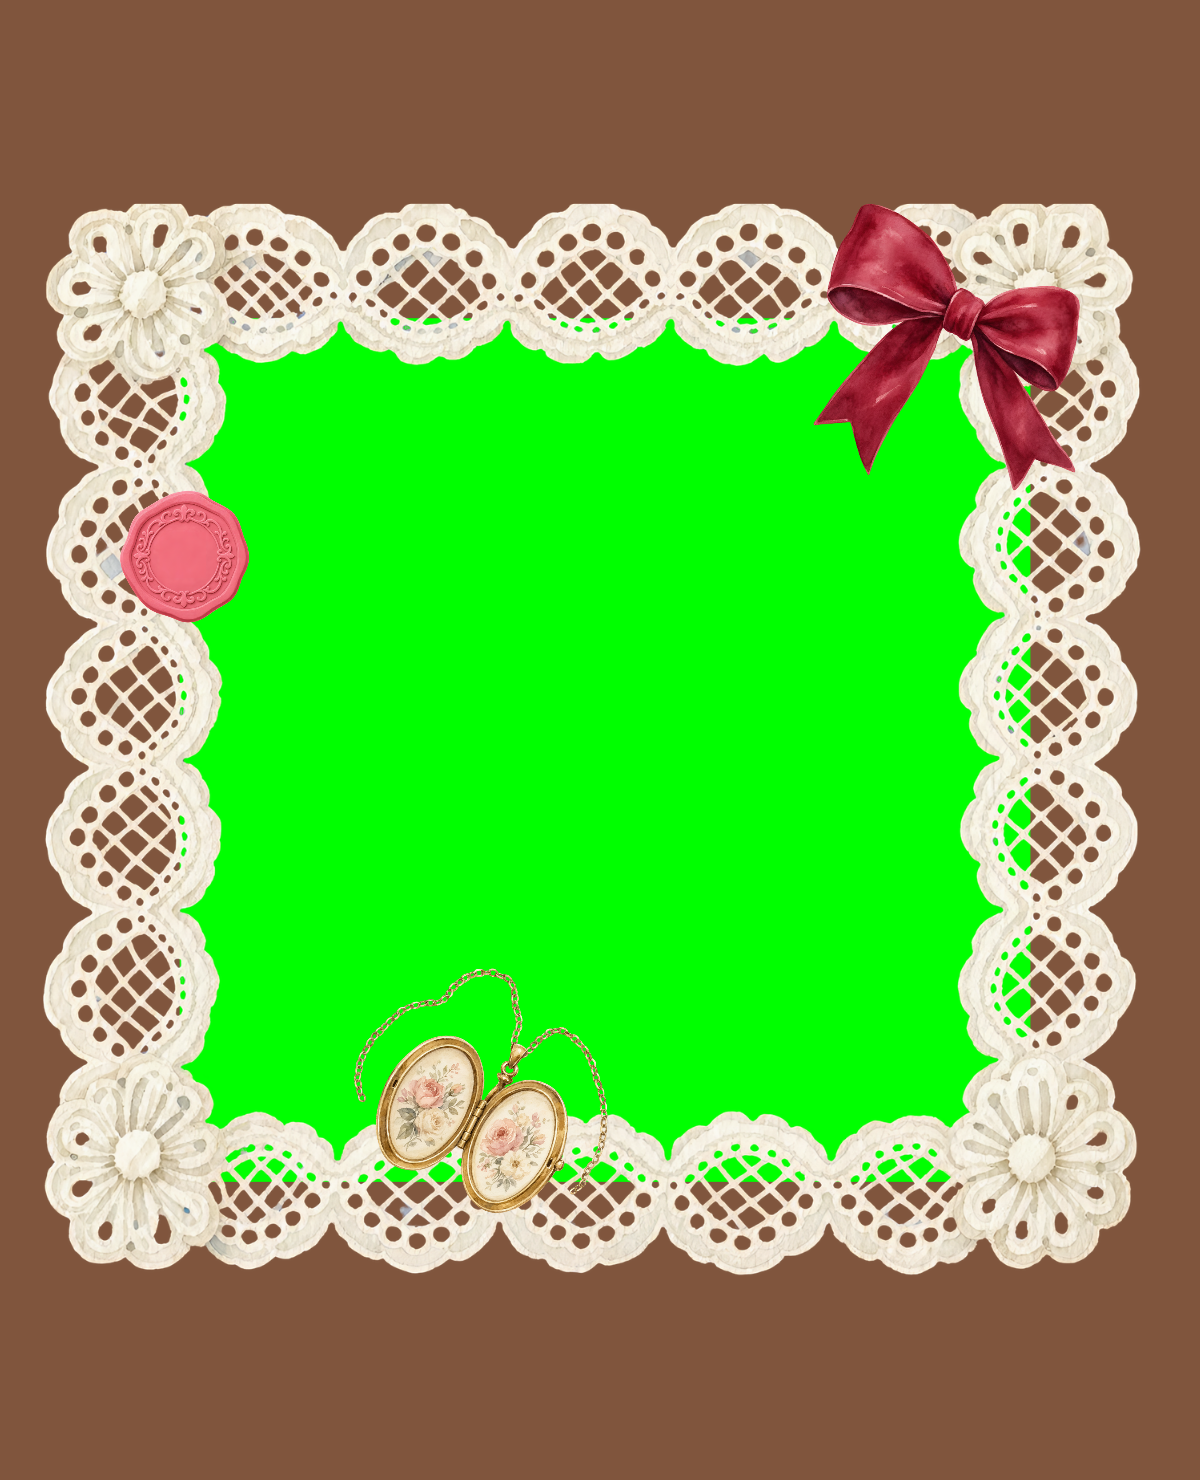
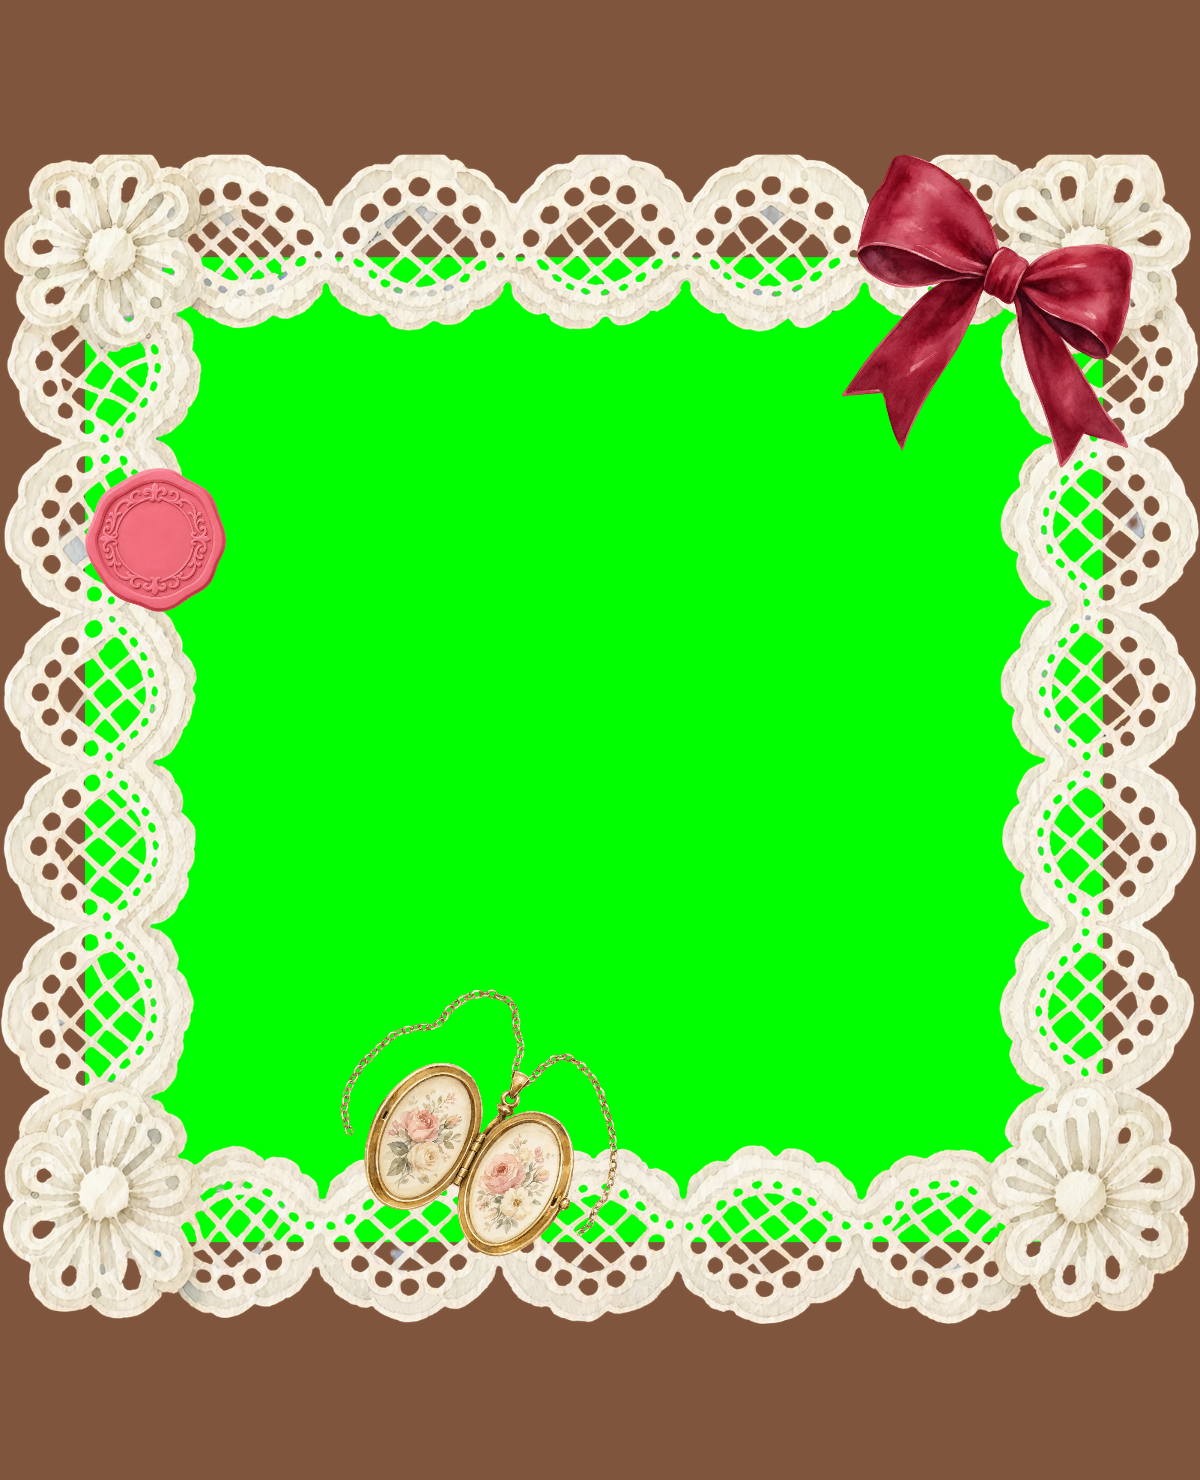
Add files via upload

diff --git a/camera.html b/camera.html
@@ -1,1 +1,1 @@
-<!doctype html><html lang="en"><head><meta charset="utf-8"><meta name="viewport" content="width=device-width,initial-scale=1"><meta name="theme-color" content="#5B6E2C"><title>Kamera · Hafiy & Aina</title><link rel="stylesheet" href="style.css?v=custom-4"></head><body class="camera-page"><main class="camera-shell"><nav class="camera-topbar" aria-label="Camera navigation"><a class="camera-icon" href="menu.html" aria-label="Close camera and return to menu">×</a><h1>Hafiy & Aina</h1><button id="switchBtn" class="camera-icon" aria-label="Switch front and back camera" hidden>⇄</button></nav><section class="camera-studio" aria-label="Wedding camera"><div class="camera-area"><video id="camera" autoplay playsinline muted hidden></video><canvas id="preview" width="480" height="592" aria-label="Live framed camera preview"></canvas><span id="countdown" role="status" aria-live="polite" hidden></span><button id="startBtn" class="start-overlay">Buka kamera</button></div><canvas id="canvas" hidden></canvas><img id="photo" alt="Your finished wedding photo" hidden><fieldset id="choices"><legend class="sr-only">Choose your frame, filter and layout</legend><div id="frameOptions" class="frame-options" aria-label="Wedding frames"></div><div id="filterOptions" class="filter-strip" aria-label="Photo filters"></div><div class="capture-row"><div class="layout-control"><span class="control-caption">Layout</span><div id="layoutOptions" class="pills"></div></div><button id="captureBtn" class="shutter" aria-label="Take photo" hidden><span class="sr-only">Take photo</span></button><a href="gallery.html" class="camera-album-control"><span class="camera-icon" aria-hidden="true">▧</span><span>Album</span></a></div></fieldset><p id="message" class="message" role="status" aria-live="polite">Pilih bingkai dan filter, kemudian buka kamera.</p><div class="button-group result-actions"><button id="retakeBtn" class="btn secondary" hidden>Ambil semula</button><button id="downloadBtn" class="btn primary" hidden>Simpan gambar</button><button id="uploadBtn" class="btn blue" hidden>Kongsi ke album</button></div><p id="saveHelp" class="fine-print" hidden>On iPhone, choose Save Image in the share sheet. Otherwise check Files → Downloads.</p></section></main><script src="script.js?v=custom-4"></script></body></html>
+<!doctype html><html lang="en"><head><meta charset="utf-8"><meta name="viewport" content="width=device-width,initial-scale=1"><meta name="theme-color" content="#5B6E2C"><title>Kamera · Hafiy & Aina</title><link rel="stylesheet" href="style.css?v=frames-5"></head><body class="camera-page"><main class="camera-shell"><nav class="camera-topbar" aria-label="Camera navigation"><a class="camera-icon" href="menu.html" aria-label="Close camera and return to menu">×</a><h1>Hafiy & Aina</h1><button id="switchBtn" class="camera-icon" aria-label="Switch front and back camera" hidden>⇄</button></nav><section class="camera-studio" aria-label="Wedding camera"><div class="camera-area"><video id="camera" autoplay playsinline muted hidden></video><canvas id="preview" width="480" height="592" aria-label="Live framed camera preview"></canvas><span id="countdown" role="status" aria-live="polite" hidden></span><button id="startBtn" class="start-overlay">Buka kamera</button></div><canvas id="canvas" hidden></canvas><img id="photo" alt="Your finished wedding photo" hidden><fieldset id="choices"><legend class="sr-only">Choose your frame, filter and layout</legend><div id="frameOptions" class="frame-options" aria-label="Wedding frames"></div><div id="filterOptions" class="filter-strip" aria-label="Photo filters"></div><div class="capture-row"><div class="layout-control"><span class="control-caption">Layout</span><div id="layoutOptions" class="pills"></div></div><button id="captureBtn" class="shutter" aria-label="Take photo" hidden><span class="sr-only">Take photo</span></button><a href="gallery.html" class="camera-album-control"><span class="camera-icon" aria-hidden="true">▧</span><span>Album</span></a></div></fieldset><p id="message" class="message" role="status" aria-live="polite">Pilih bingkai dan filter, kemudian buka kamera.</p><div class="button-group result-actions"><button id="retakeBtn" class="btn secondary" hidden>Ambil semula</button><button id="downloadBtn" class="btn primary" hidden>Simpan gambar</button><button id="uploadBtn" class="btn blue" hidden>Kongsi ke album</button></div><p id="saveHelp" class="fine-print" hidden>On iPhone, choose Save Image in the share sheet. Otherwise check Files → Downloads.</p></section></main><script src="script.js?v=frames-5"></script></body></html>

diff --git a/script.js b/script.js
@@ -4,9 +4,10 @@ const $ = id => document.getElementById(id);
 const camera=$('camera'), photo=$('photo'), canvas=$('canvas'), preview=$('preview'), message=$('message');
 const startBtn=$('startBtn'),switchBtn=$('switchBtn'),captureBtn=$('captureBtn'),retakeBtn=$('retakeBtn'),downloadBtn=$('downloadBtn'),uploadBtn=$('uploadBtn');
 const frames=[
-{name:'Polka',file:'frame-polka.png',bg:'#80553d',ink:'#705246',area:{x:180,y:318,w:850,h:834}},
-{name:'Sticker',file:'frame-sticker.png',bg:'#80553d',ink:'#705246',area:{x:180,y:318,w:850,h:864}},
-{name:'Lace',file:'frame-lace.png',bg:'#80553d',ink:'#705246',area:{x:180,y:318,w:850,h:864}}
+{name:'Lace',file:'frame-lace.png?v=frames-5',bg:'#80553d',ink:'#705246',area:{x:85,y:257,w:1018,h:985}},
+{name:'Polka',file:'frame-polka.png?v=frames-5',bg:'#80553d',ink:'#705246',area:{x:77,y:86,w:1038,h:1096}},
+{name:'Sticker',file:'frame-sticker.png?v=frames-5',bg:'#80553d',ink:'#705246',area:{x:120,y:120,w:975,h:1062}},
+{name:'Scallop',file:'frame-scallop.png?v=frames-5',bg:'#80553d',ink:'#705246',area:{x:110,y:294,w:986,h:906}}
 ];
 const filters=['Original','Warm','Soft','Vintage','Black & White'];
 let frameIndex=0,filterIndex=0,layout=1,shots=[],stream=null,facing='user',busy=false,completed=false,saveFile=null,raf=0,lastPaint=0;
@@ -15,7 +16,7 @@ let area=frames[0].area;
 function prepareFrame(image){const surface=document.createElement('canvas');surface.width=1200;surface.height=1480;const c=surface.getContext('2d',{willReadFrequently:true});c.drawImage(image,0,0,1200,1480);const pixels=c.getImageData(0,0,1200,1480),d=pixels.data;
 for(let i=0;i<d.length;i+=4){const r=d[i],g=d[i+1],b=d[i+2],dominance=g-Math.max(r,b);if(g>125&&dominance>65){const opacity=1-Math.min(1,Math.max(0,(dominance-65)/95));d[i+3]=Math.round(d[i+3]*opacity);if(opacity>0&&opacity<1)d[i+1]=Math.min(g,Math.max(r,b)+12);}}
 c.putImageData(pixels,0,0);return surface;}
-frames.forEach((f,i)=>{const image=new Image();image.onload=()=>{try{f.overlay=prepareFrame(image);f.loaded=true;if(frameIndex===i)refreshResult();}catch(e){f.error=true;message.textContent='Could not prepare '+f.name+'. Refresh the page and try again.';}};image.onerror=()=>{f.error=true;if(frameIndex===i)message.textContent='Could not load '+f.file+'. Please upload all three frame PNG files.';};image.src='./'+f.file;});
+frames.forEach((f,i)=>{const image=new Image();image.onload=()=>{try{f.overlay=prepareFrame(image);f.loaded=true;if(frameIndex===i)refreshResult();}catch(e){f.error=true;message.textContent='Could not prepare '+f.name+'. Refresh the page and try again.';}};image.onerror=()=>{f.error=true;if(frameIndex===i)message.textContent='Could not load '+f.file+'. Please upload all four frame PNG files.';};image.src='./'+f.file;});
 
 function flower(c,x,y,r,color,turn=0){c.save();c.translate(x,y);c.rotate(turn);c.fillStyle=color;for(let i=0;i<7;i++){c.rotate(Math.PI*2/7);c.beginPath();c.ellipse(0,-r*.62,r*.4,r*.66,0,0,Math.PI*2);c.fill();}c.fillStyle='#b3803e';c.beginPath();c.arc(0,0,r*.23,0,Math.PI*2);c.fill();c.restore();}
 function foliage(c,x,y,flip){c.save();c.translate(x,y);c.scale(flip,1);c.strokeStyle='#809770';c.lineWidth=4;c.beginPath();c.moveTo(0,85);c.quadraticCurveTo(55,0,7,-95);c.stroke();c.fillStyle='#a5b68e';for(let j=0;j<5;j++){c.beginPath();c.ellipse(j%2?32:0,65-j*35,11,27,j%2?.8:-.7,0,Math.PI*2);c.fill();}c.restore();}

diff --git a/menu.html b/menu.html
@@ -1,1 +1,1 @@
-<!doctype html><html lang="ms"><head><meta charset="utf-8"><meta name="viewport" content="width=device-width,initial-scale=1"><meta name="theme-color" content="#5B6E2C"><title>Menu Kenangan · Hafiy & Aina</title><link rel="stylesheet" href="style.css?v=custom-4"></head><body class="menu-page"><main class="wedding-menu"><a class="menu-home" href="index.html">← Jemputan</a><div class="menu-art"><img src="menu-collage.png" alt="Kolaj bingkai emas, orkid ungu, renda dan sampul jemputan" width="1120" height="1400"><div class="menu-couple">Hafiy<span>&</span>Aina</div><div class="menu-initials" aria-hidden="true">H<span>&</span>A</div><p class="menu-art-date">2 Januari<br>2027</p><p class="menu-poem">Abadikan senyuman,<br>simpankan kenangan.</p></div><h1 class="sr-only">Selamat datang ke majlis Hafiy dan Aina</h1><form id="guestForm" action="camera.html"><label for="guestName">Nama anda <span>(pilihan)</span></label><input id="guestName" name="guest" type="text" maxlength="60" autocomplete="given-name" placeholder="Nama panggilan anda"><button type="submit" class="menu-action menu-camera"><svg aria-hidden="true" width="22" height="22" viewBox="0 0 24 24" fill="none" stroke="currentColor" stroke-width="1.6"><path d="M3 6h5l2-3h4l2 3h5v14H3z"/><circle cx="12" cy="12" r="4"/></svg> AMBIL GAMBAR</button></form><a class="menu-action menu-album" href="gallery.html">LIHAT ALBUM KENANGAN</a><p class="menu-footnote">Setiap senyuman, satu kenangan.</p></main><script src="menu.js?v=custom-4"></script></body></html>
+<!doctype html><html lang="ms"><head><meta charset="utf-8"><meta name="viewport" content="width=device-width,initial-scale=1"><meta name="theme-color" content="#5B6E2C"><title>Menu Kenangan · Hafiy & Aina</title><link rel="stylesheet" href="style.css?v=frames-5"></head><body class="menu-page"><main class="wedding-menu"><a class="menu-home" href="index.html">← Jemputan</a><div class="menu-art"><img src="menu-collage.png" alt="Kolaj bingkai emas, orkid ungu, renda dan sampul jemputan" width="1120" height="1400"><div class="menu-couple">Hafiy<span>&</span>Aina</div><div class="menu-initials" aria-hidden="true">H<span>&</span>A</div><p class="menu-art-date">2 Januari<br>2027</p><p class="menu-poem">Abadikan senyuman,<br>simpankan kenangan.</p></div><h1 class="sr-only">Selamat datang ke majlis Hafiy dan Aina</h1><form id="guestForm" action="camera.html"><label for="guestName">Nama anda <span>(pilihan)</span></label><input id="guestName" name="guest" type="text" maxlength="60" autocomplete="given-name" placeholder="Nama panggilan anda"><button type="submit" class="menu-action menu-camera"><svg aria-hidden="true" width="22" height="22" viewBox="0 0 24 24" fill="none" stroke="currentColor" stroke-width="1.6"><path d="M3 6h5l2-3h4l2 3h5v14H3z"/><circle cx="12" cy="12" r="4"/></svg> AMBIL GAMBAR</button></form><a class="menu-action menu-album" href="gallery.html">LIHAT ALBUM KENANGAN</a><p class="menu-footnote">Setiap senyuman, satu kenangan.</p></main><script src="menu.js?v=frames-5"></script></body></html>

diff --git a/gallery.html b/gallery.html
@@ -1,2 +1,2 @@
 <!doctype html>
-<html lang="en"><head><meta charset="utf-8"><meta name="viewport" content="width=device-width,initial-scale=1"><meta name="theme-color" content="#5B6E2C"><title>Wedding Album · Hafiy & Aina</title><link rel="stylesheet" href="style.css?v=custom-4"></head><body><main class="container album-page"><nav class="album-nav"><a class="welcome-album" href="menu.html">← Menu utama</a><a class="btn secondary" href="camera.html">← Take photos</a><span class="eyebrow">HAFIY & AINA</span></nav><div class="flower-line" aria-hidden="true">◆ <span>✦</span> ◆ <span>✦</span> ◆</div><section id="album" class="gallery-section" aria-labelledby="galleryTitle"><span class="eyebrow">KENANGAN DARIPADA TETAMU</span><h2 id="galleryTitle">Album Kenangan</h2><p>Momen indah bersama insan tersayang.</p><button id="refreshGalleryBtn" class="btn secondary">Refresh gallery</button><p id="galleryMessage" class="message" role="status" aria-live="polite">Loading photos…</p><div id="galleryGrid" class="gallery-grid"></div></section><a class="btn primary album-cta" href="camera.html">Take a photo →</a><footer>Salam kasih, Hafiy & Aina ✦</footer></main><script src="gallery.js?v=custom-4"></script></body></html>
+<html lang="en"><head><meta charset="utf-8"><meta name="viewport" content="width=device-width,initial-scale=1"><meta name="theme-color" content="#5B6E2C"><title>Wedding Album · Hafiy & Aina</title><link rel="stylesheet" href="style.css?v=frames-5"></head><body><main class="container album-page"><nav class="album-nav"><a class="welcome-album" href="menu.html">← Menu utama</a><a class="btn secondary" href="camera.html">← Take photos</a><span class="eyebrow">HAFIY & AINA</span></nav><div class="flower-line" aria-hidden="true">◆ <span>✦</span> ◆ <span>✦</span> ◆</div><section id="album" class="gallery-section" aria-labelledby="galleryTitle"><span class="eyebrow">KENANGAN DARIPADA TETAMU</span><h2 id="galleryTitle">Album Kenangan</h2><p>Momen indah bersama insan tersayang.</p><button id="refreshGalleryBtn" class="btn secondary">Refresh gallery</button><p id="galleryMessage" class="message" role="status" aria-live="polite">Loading photos…</p><div id="galleryGrid" class="gallery-grid"></div></section><a class="btn primary album-cta" href="camera.html">Take a photo →</a><footer>Salam kasih, Hafiy & Aina ✦</footer></main><script src="gallery.js?v=frames-5"></script></body></html>

diff --git a/index.html b/index.html
@@ -1,2 +1,2 @@
 <!doctype html>
-<html lang="ms"><head><meta charset="utf-8"><meta name="viewport" content="width=device-width,initial-scale=1"><meta name="theme-color" content="#5B6E2C"><title>Walimatul Urus · Hafiy & Aina</title><link rel="stylesheet" href="style.css?v=custom-4"></head><body class="welcome-page"><main class="welcome-cover"><p class="welcome-kicker">DENGAN PENUH KESYUKURAN</p><h1 class="welcome-title">Walimatul Urus</h1><a class="envelope-link" href="menu.html" aria-label="Buka kamera majlis Hafiy dan Aina"><img src="welcome-envelope.png" alt="Sampul jemputan krim dengan renda hati, orkid putih dan ikatan emas" width="1280" height="1280"><span class="envelope-monogram" aria-hidden="true">H <i>&</i> A</span></a><h2 class="welcome-names">Hafiy <span>&</span> Aina</h2><p class="welcome-date">2 Januari 2027</p><p class="welcome-venue">IDCC SHAH ALAM</p><a class="open-invitation" href="menu.html"><span class="welcome-seal" aria-hidden="true">H<span>&</span>A</span><span><strong>Sentuh untuk buka</strong><small>ABADIKAN KENANGAN BERSAMA</small></span><span class="welcome-arrow" aria-hidden="true">↗</span></a><a class="welcome-album" href="gallery.html">Lihat album kenangan</a></main></body></html>
+<html lang="ms"><head><meta charset="utf-8"><meta name="viewport" content="width=device-width,initial-scale=1"><meta name="theme-color" content="#5B6E2C"><title>Walimatul Urus · Hafiy & Aina</title><link rel="stylesheet" href="style.css?v=frames-5"></head><body class="welcome-page"><main class="welcome-cover"><p class="welcome-kicker">DENGAN PENUH KESYUKURAN</p><h1 class="welcome-title">Walimatul Urus</h1><a class="envelope-link" href="menu.html" aria-label="Buka kamera majlis Hafiy dan Aina"><img src="welcome-envelope.png" alt="Sampul jemputan krim dengan renda hati, orkid putih dan ikatan emas" width="1280" height="1280"><span class="envelope-monogram" aria-hidden="true">H <i>&</i> A</span></a><h2 class="welcome-names">Hafiy <span>&</span> Aina</h2><p class="welcome-date">2 Januari 2027</p><p class="welcome-venue">IDCC SHAH ALAM</p><a class="open-invitation" href="menu.html"><span class="welcome-seal" aria-hidden="true">H<span>&</span>A</span><span><strong>Sentuh untuk buka</strong><small>ABADIKAN KENANGAN BERSAMA</small></span><span class="welcome-arrow" aria-hidden="true">↗</span></a><a class="welcome-album" href="gallery.html">Lihat album kenangan</a></main></body></html>
